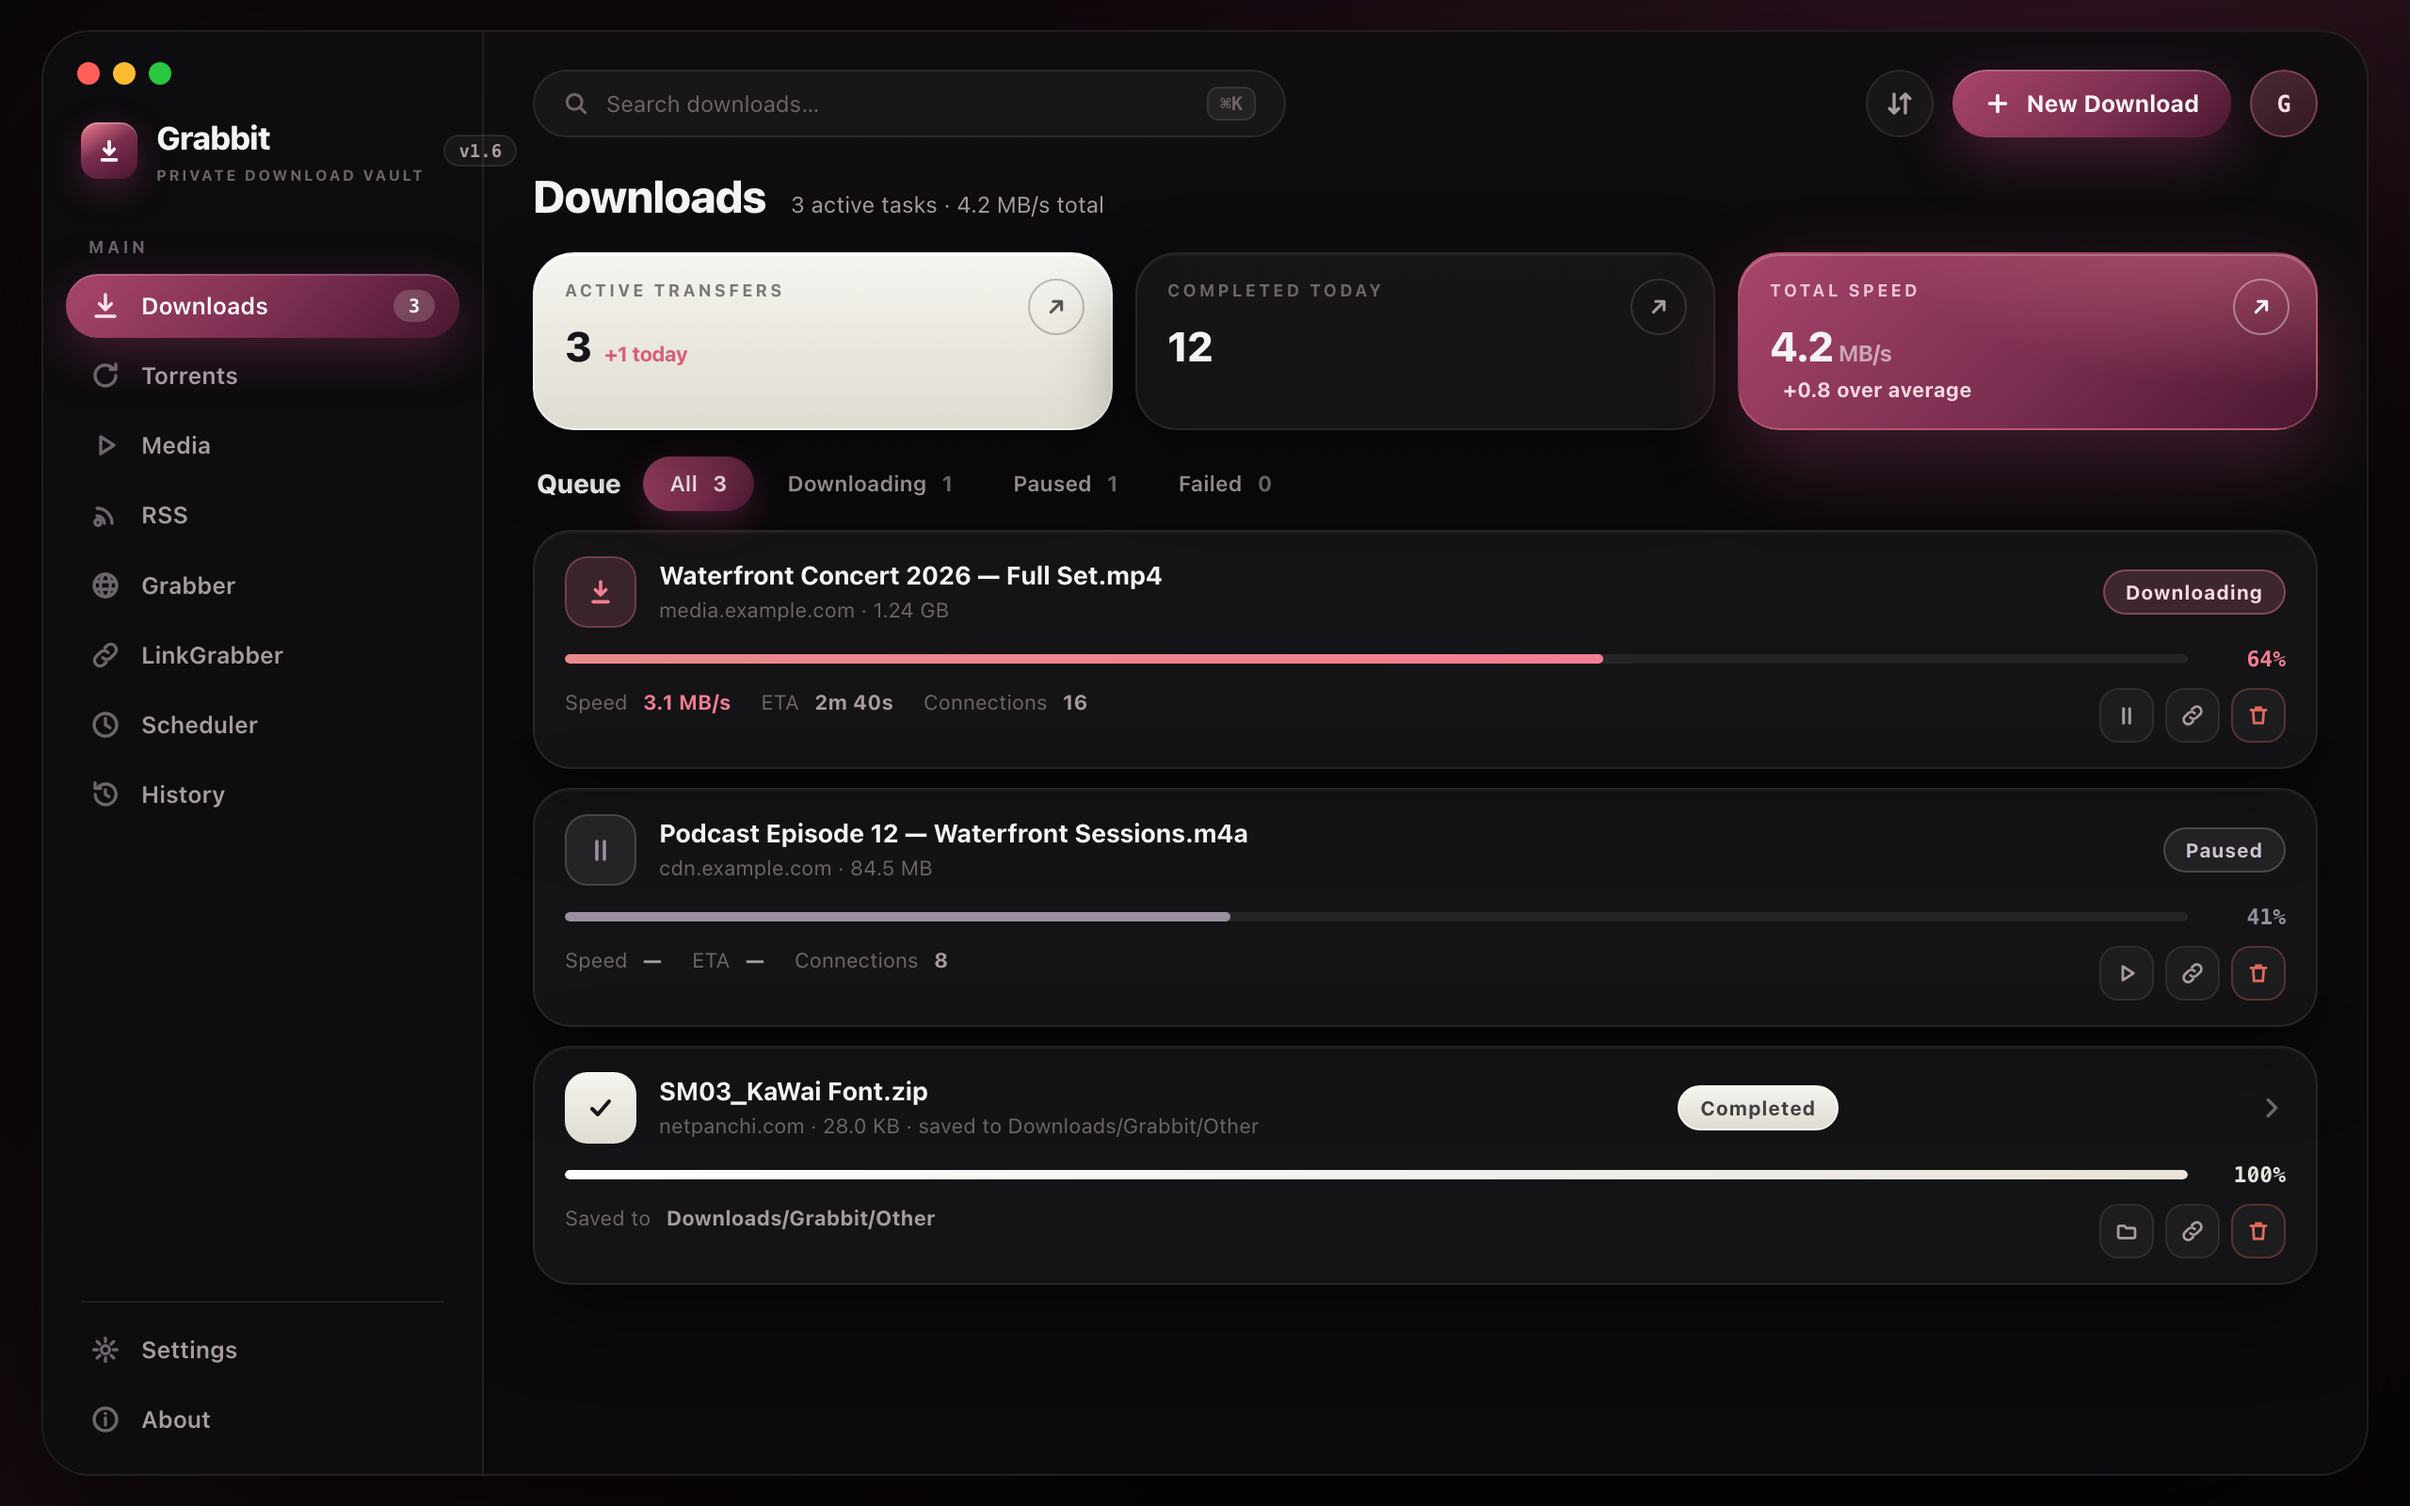
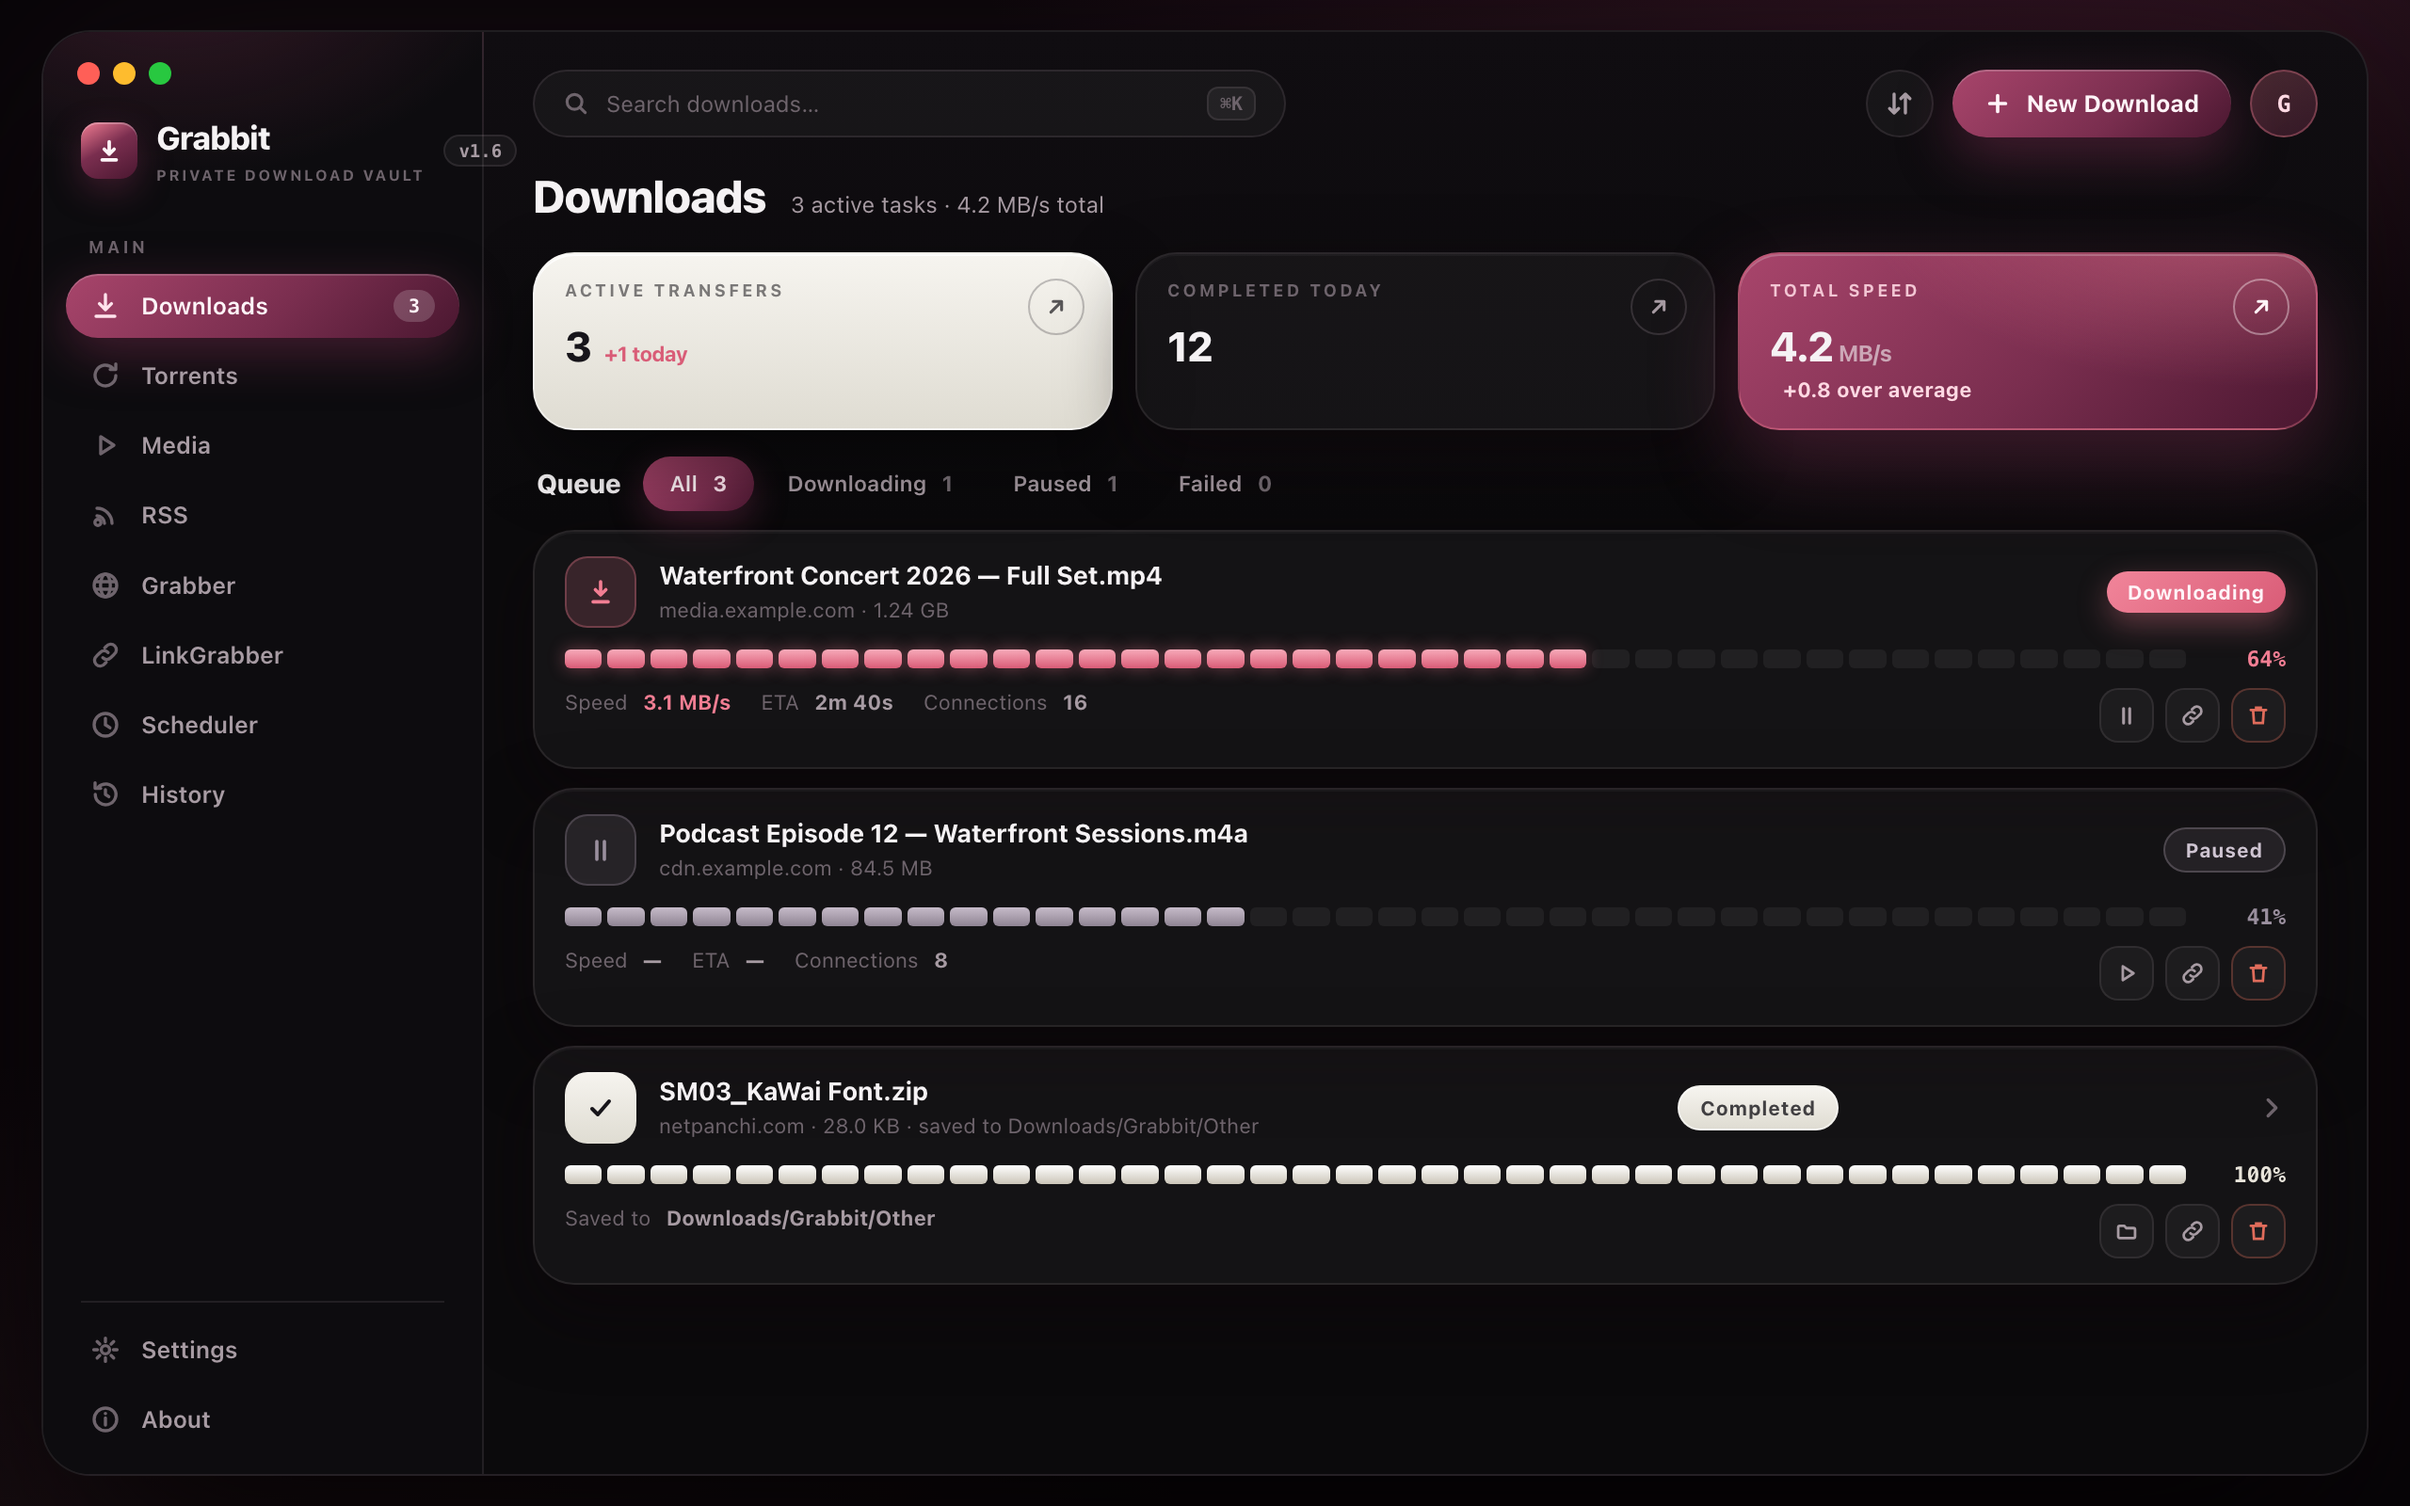
docs: Velvet gets a segmented progress meter + polish
- Progress bars replaced with Vaulta-style segmented meters (38 thin
  segments; lit run in a coral gradient with a soft glow, mauve paused,
  champagne completed) generated from data-fill.
- The Downloading status pill is now a coral gradient pill with glow;
  task cards moved to radius 22 and a softer plum-tinted shadow; the
  sidebar got a plum wash behind the brand.

diff --git a/docs/theme-previews/velvet.html b/docs/theme-previews/velvet.html
@@ -29,7 +29,7 @@
     --mauve: #9A8F9E;
     --champagne: #E8E4DA;
     --red: #E06C5B;
-    --shadow-card: 0 1px 0 rgba(255, 255, 255, .04) inset, 0 16px 40px rgba(0, 0, 0, .5);
+    --shadow-card: 0 1px 0 rgba(255, 255, 255, .04) inset, 0 14px 38px rgba(12, 5, 10, .55);
     --shadow-window: 0 60px 140px rgba(0, 0, 0, .82), 0 0 130px rgba(122, 46, 79, .16);
   }
 
@@ -60,7 +60,9 @@
   /* ---------- Sidebar ---------- */
   .sidebar {
     width: 234px; flex: none;
-    background: var(--sidebar);
+    background:
+      radial-gradient(260px 170px at 30% -6%, rgba(122, 46, 79, .38), transparent 72%),
+      var(--sidebar);
     border-right: 1px solid var(--line);
     padding: 14px 12px 12px;
     display: flex; flex-direction: column;
@@ -218,7 +220,7 @@
 
   /* ---------- Task rows (chevron list style) ---------- */
   .task {
-    background: var(--glass); border: 1px solid var(--line); border-radius: 20px;
+    background: var(--glass); border: 1px solid var(--line); border-radius: 22px;
     box-shadow: var(--shadow-card); padding: 13px 16px; margin-bottom: 10px;
   }
   .task .row1 { display: flex; align-items: center; gap: 12px; }
@@ -236,17 +238,25 @@
     font-size: 10.5px; font-weight: 700; letter-spacing: .03em;
     padding: 3.5px 11px; border-radius: 999px; margin-left: auto;
   }
-  .status.coral { color: #FFD9E3; background: rgba(242, 126, 147, .18); border: 1px solid rgba(242, 126, 147, .4); }
+  .status.coral {
+    color: #FFF4F8; border: none;
+    background: linear-gradient(135deg, #F1859A, #D95C77);
+    box-shadow: 0 6px 16px rgba(242, 126, 147, .35);
+  }
   .status.mauve { color: #CFC5D2; background: rgba(154, 143, 158, .12); border: 1px solid rgba(154, 143, 158, .35); }
   .status.silver { color: rgba(23,21,26,.8); background: linear-gradient(180deg, var(--silver-1), var(--silver-2)); border: 1px solid rgba(255,255,255,.5); }
   .status.red { color: #FFD2CC; background: rgba(224, 108, 91, .14); border: 1px solid rgba(224, 108, 91, .4); }
 
-  .task .row2 { display: flex; align-items: center; gap: 12px; margin-top: 10px; }
-  .bar { flex: 1; height: 5px; border-radius: 999px; background: rgba(255, 255, 255, .07); overflow: hidden; }
-  .bar i { display: block; height: 100%; border-radius: 999px; }
-  .bar.coral i { background: linear-gradient(90deg, #E98A8A, var(--coral)); box-shadow: 0 0 14px rgba(242, 126, 147, .35); }
-  .bar.mauve i { background: var(--mauve); }
-  .bar.silver i { background: linear-gradient(90deg, #FFFFFF, var(--champagne)); }
+  .task .row2 { display: flex; align-items: center; gap: 13px; margin-top: 10px; }
+  /* Segmented progress meter (Vaulta portfolio-bar style) */
+  .segs { display: flex; gap: 3px; flex: 1; height: 10px; }
+  .segs i { flex: 1; border-radius: 3px; background: rgba(255, 255, 255, .06); }
+  .segs.coral i.on {
+    background: linear-gradient(180deg, #F7AAB9, #D95C77);
+    box-shadow: 0 0 9px rgba(242, 126, 147, .4);
+  }
+  .segs.mauve i.on { background: linear-gradient(180deg, #C6BBC9, #8F8493); }
+  .segs.silver i.on { background: linear-gradient(180deg, #FFFFFF, #CBC5B8); }
   .task .pct { font: 700 11.5px ui-monospace, "SF Mono", monospace; min-width: 40px; text-align: right; color: var(--coral); }
   .task .pct.mauve { color: var(--mauve); }
   .task .pct.silver { color: var(--champagne); }
@@ -400,7 +410,7 @@
           <span class="status coral">Downloading</span>
         </div>
         <div class="row2">
-          <div class="bar coral"><i style="width:64%"></i></div>
+          <div class="segs coral" data-fill="64"></div>
           <div class="pct">64%</div>
         </div>
         <div class="meta">
@@ -427,7 +437,7 @@
           <span class="status mauve">Paused</span>
         </div>
         <div class="row2">
-          <div class="bar mauve"><i style="width:41%"></i></div>
+          <div class="segs mauve" data-fill="41"></div>
           <div class="pct mauve">41%</div>
         </div>
         <div class="meta">
@@ -457,7 +467,7 @@
           </span>
         </div>
         <div class="row2">
-          <div class="bar silver"><i style="width:100%"></i></div>
+          <div class="segs silver" data-fill="100"></div>
           <div class="pct silver">100%</div>
         </div>
         <div class="meta">
@@ -471,5 +481,18 @@
       </div>
     </main>
   </div>
+  <script>
+    // Segmented meters: 38 segments, lit up to data-fill percent.
+    document.querySelectorAll('.segs').forEach((meter) => {
+      const fill = Math.max(0, Math.min(100, parseInt(meter.dataset.fill || '0', 10)));
+      const count = 38;
+      const lit = Math.round((count * fill) / 100);
+      for (let i = 0; i < count; i += 1) {
+        const seg = document.createElement('i');
+        if (i < lit) seg.className = 'on';
+        meter.appendChild(seg);
+      }
+    });
+  </script>
 </body>
 </html>

diff --git a/docs/theme-previews/README.md b/docs/theme-previews/README.md
@@ -177,9 +177,11 @@ rows, and a plum-gradient app mark.
 | Card shadow | `inset 0 1px 0 rgba(255,255,255,.04), 0 16px 40px rgba(0,0,0,.5)` |
 | Window shadow | `0 60px 140px rgba(0,0,0,.82), 0 0 130px rgba(122,46,79,.16)` |
 
-Radii: window 26 · cards 20–22 · icon tiles 12 · pills 999. Signature
-elements: plum-gradient active pill and brand mark, coral file-icon
-tiles and progress fill, silver completed row with a chevron.
+Radii: window 26 · cards 22 · icon tiles 12 · pills 999. Signature
+elements: plum-gradient active pill and brand mark, **segmented progress
+meters** (Vaulta portfolio-bar style: 38 segments, lit ones in a coral
+gradient with a soft glow; mauve for paused, champagne for completed),
+gradient coral status pills, and a silver completed row with a chevron.
 
 ### Files
 
